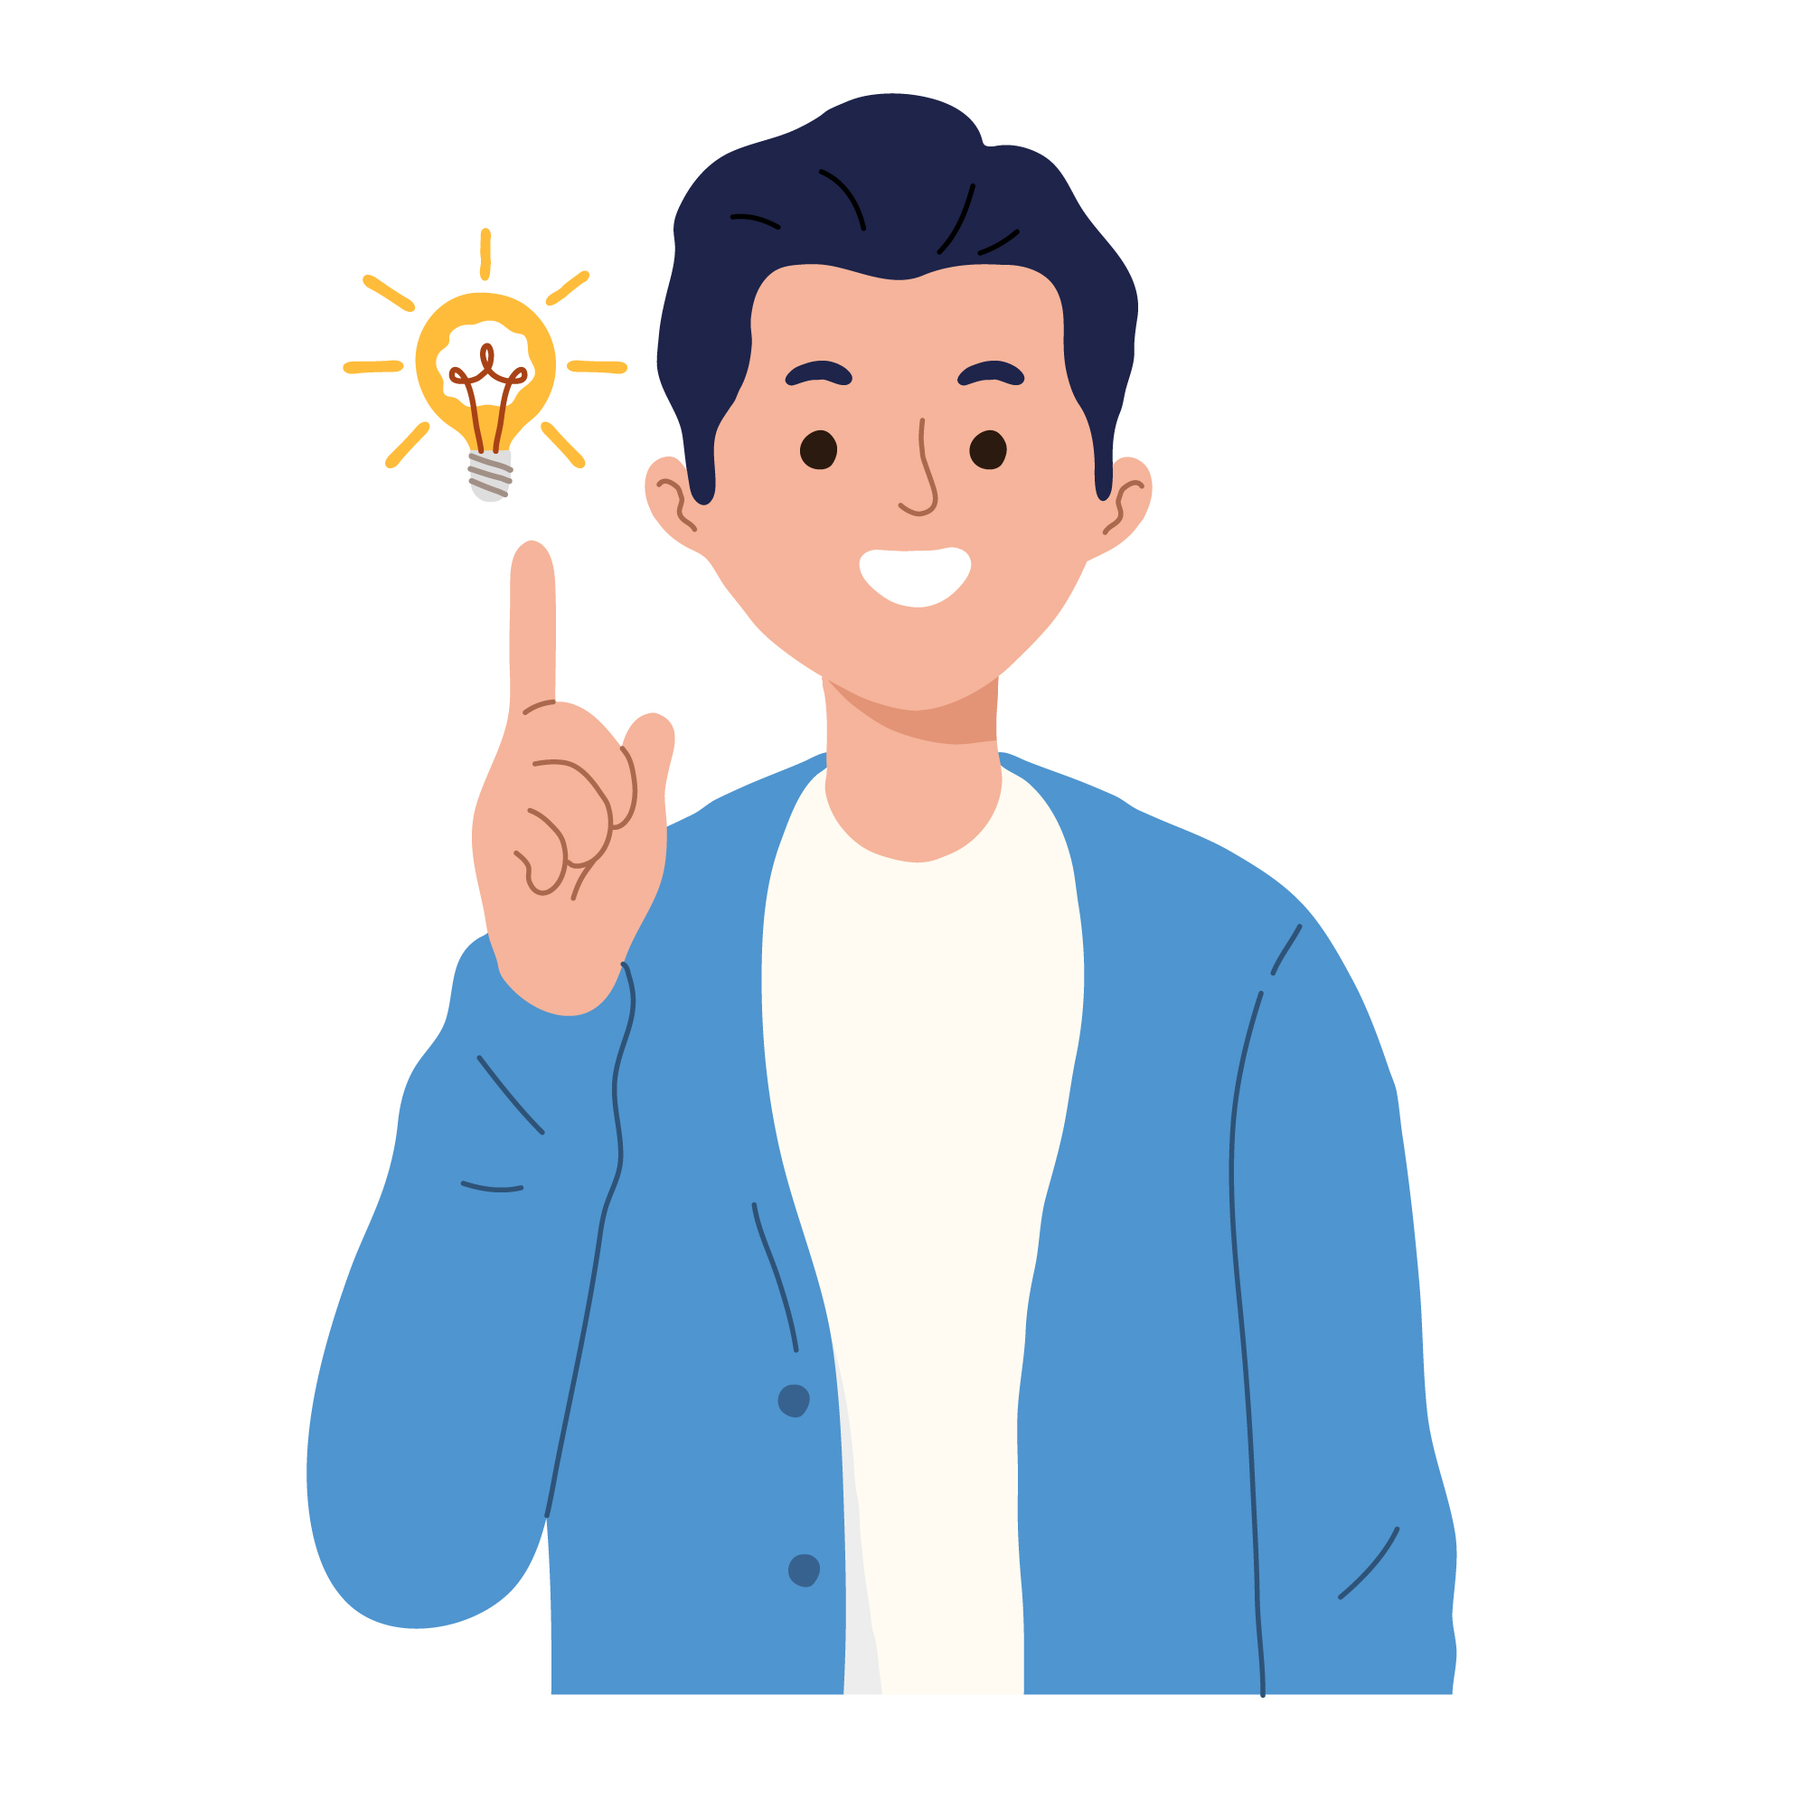
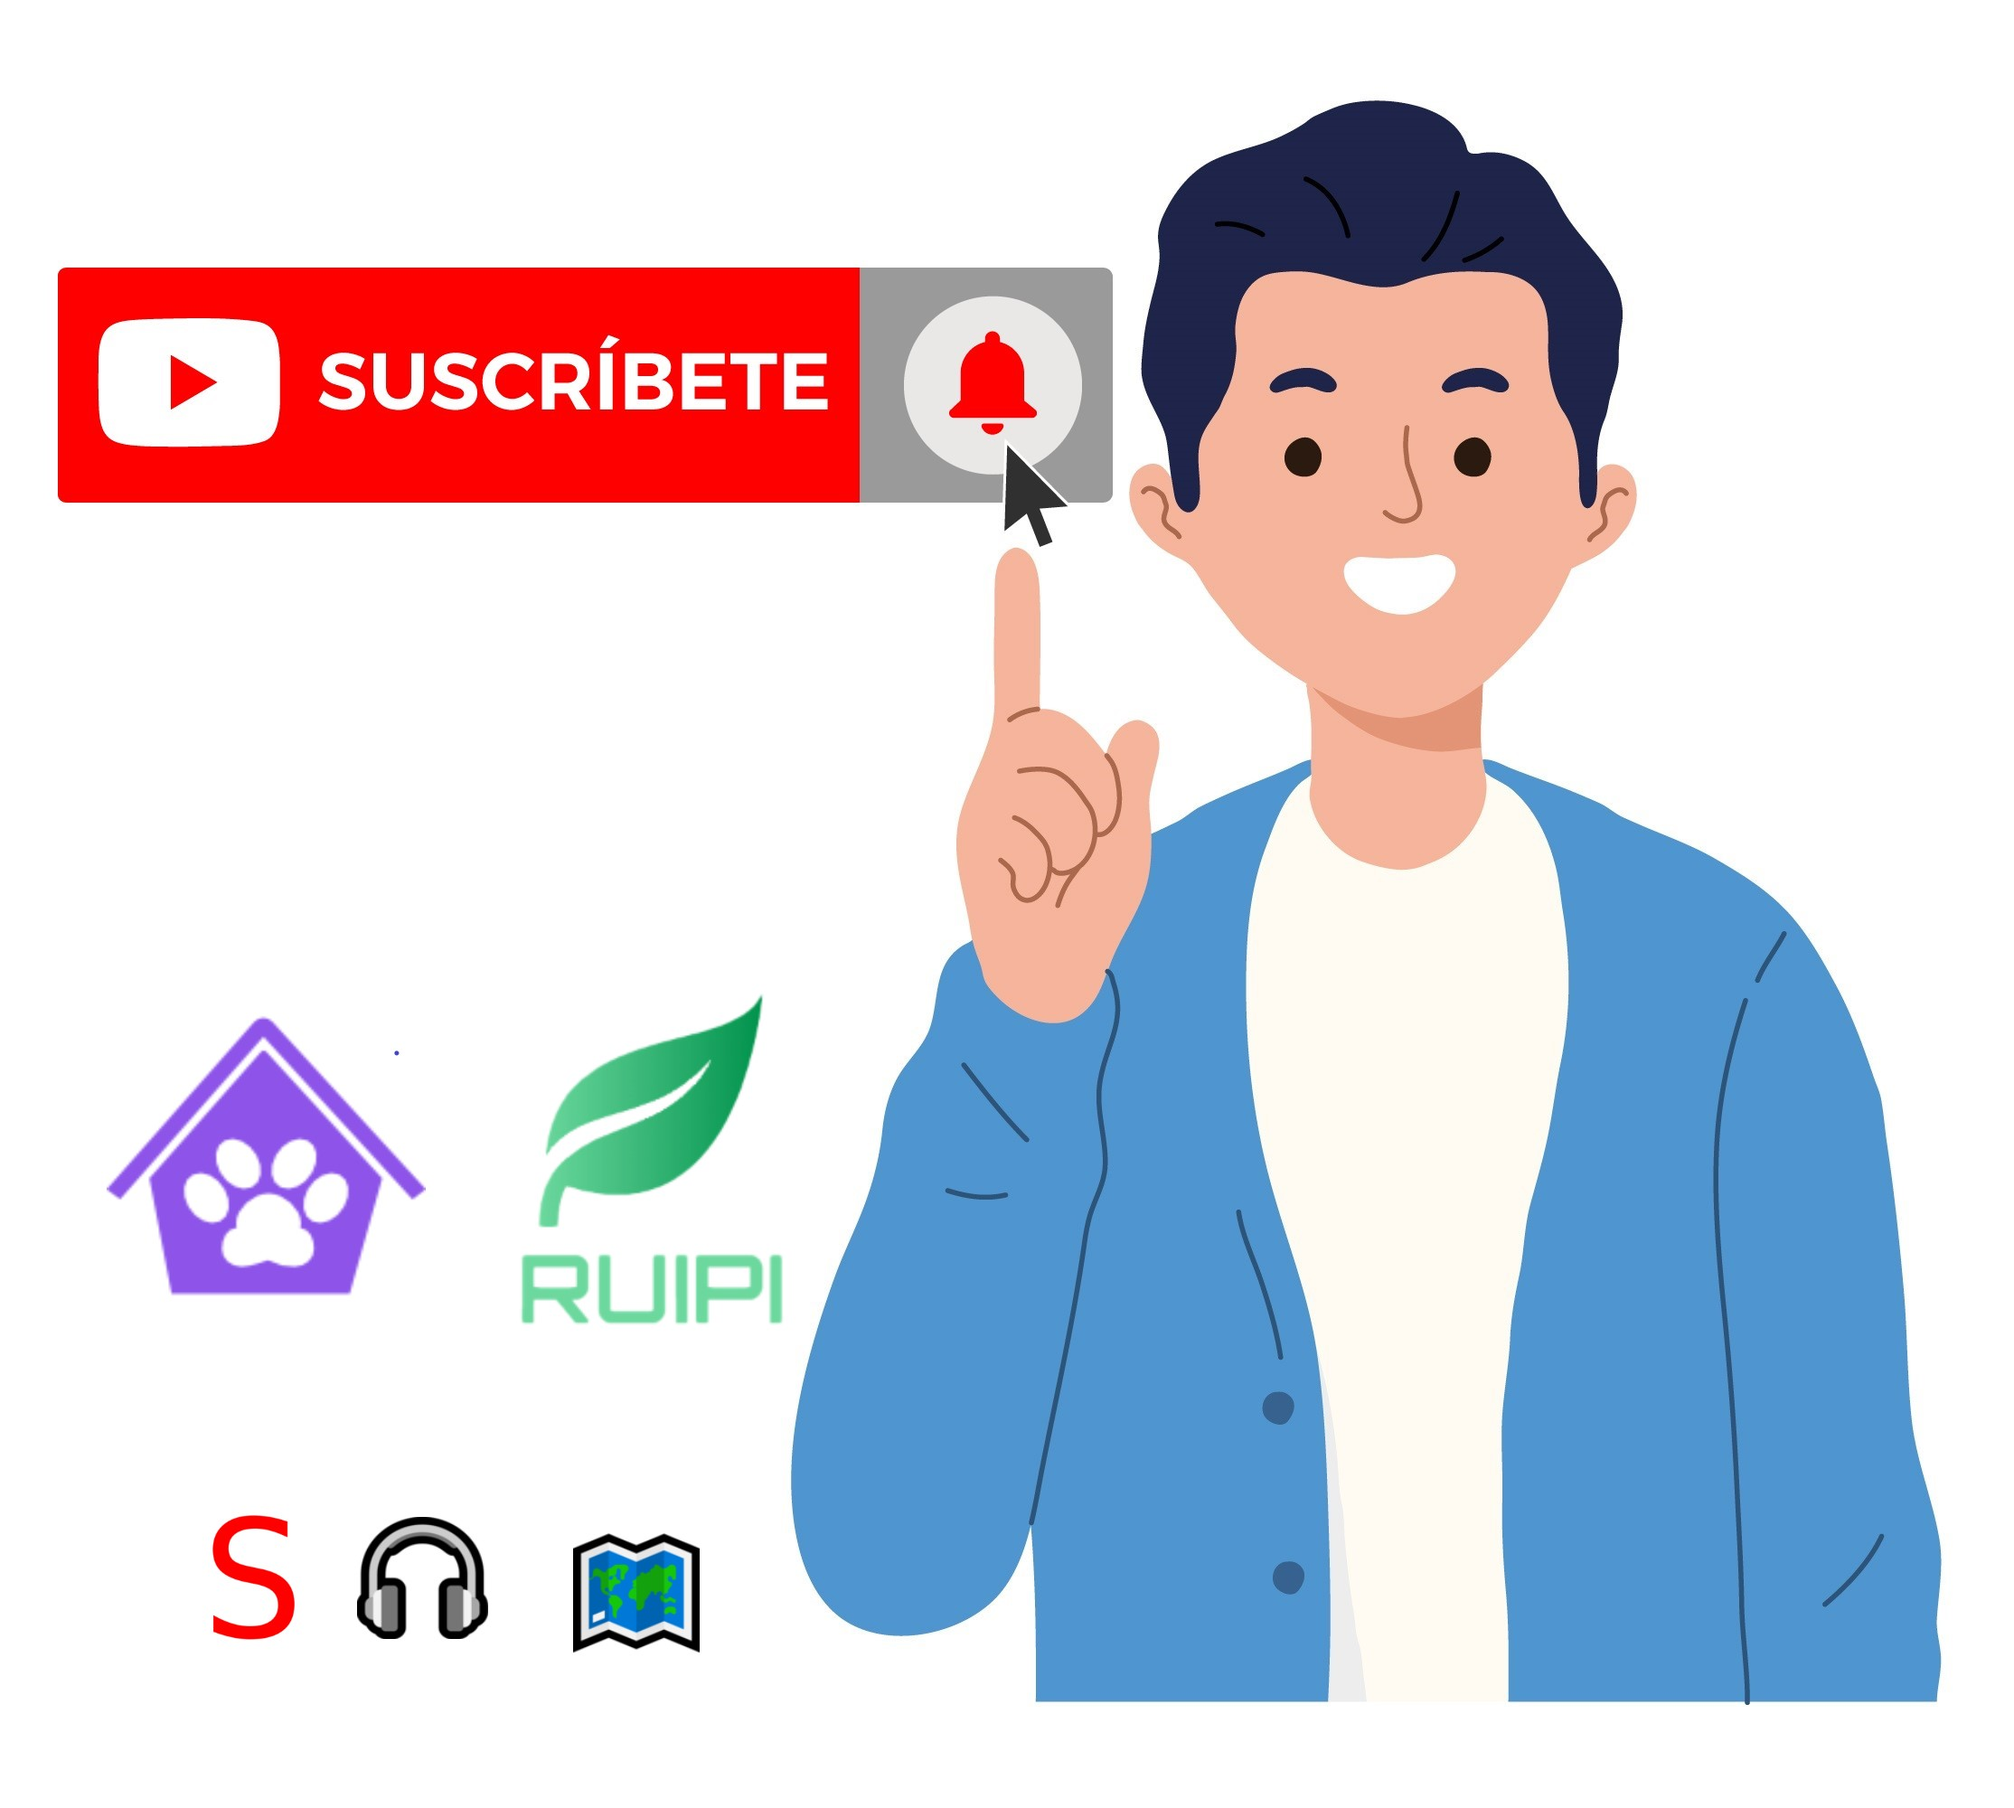
Youtube links added

diff --git a/index.html b/index.html
@@ -81,7 +81,10 @@
 
         </article>
         <article>
-            <img class="gray-scale" src="assets/daniel.jpg" alt="Daniel Lozada">
+            <a href="https://www.youtube.com/watch?v=ZsXlwuImhH0&ab_channel=DanielLozada" rel="noopener" target="_blank"
+                title="YouTube">
+                <img src="assets/daniel.jpg" alt="Daniel Lozada">
+            </a>
         </article>
         <article>
             <h2 class="text-center text-lg-left">Algo de mi stack de desarrollo actual:</h2>
@@ -536,6 +539,14 @@
                     </svg>
                     <h5>SOCIAL MEDIA</h5>
                     <small class="social-media">
+                        <a href="https://www.youtube.com/channel/UChvf1hPa2T0zAooR_6d7UdA" target="_blank"
+                            rel="noopener">
+                            <svg xmlns="http://www.w3.org/2000/svg" width="16" height="16" fill="currentColor"
+                                class="bi bi-youtube" viewBox="0 0 16 16">
+                                <path
+                                    d="M8.051 1.999h.089c.822.003 4.987.033 6.11.335a2.01 2.01 0 0 1 1.415 1.42c.101.38.172.883.22 1.402l.01.104.022.26.008.104c.065.914.073 1.77.074 1.957v.075c-.001.194-.01 1.108-.082 2.06l-.008.105-.009.104c-.05.572-.124 1.14-.235 1.558a2.007 2.007 0 0 1-1.415 1.42c-1.16.312-5.569.334-6.18.335h-.142c-.309 0-1.587-.006-2.927-.052l-.17-.006-.087-.004-.171-.007-.171-.007c-1.11-.049-2.167-.128-2.654-.26a2.007 2.007 0 0 1-1.415-1.419c-.111-.417-.185-.986-.235-1.558L.09 9.82l-.008-.104A31.4 31.4 0 0 1 0 7.68v-.123c.002-.215.01-.958.064-1.778l.007-.103.003-.052.008-.104.022-.26.01-.104c.048-.519.119-1.023.22-1.402a2.007 2.007 0 0 1 1.415-1.42c.487-.13 1.544-.21 2.654-.26l.17-.007.172-.006.086-.003.171-.007A99.788 99.788 0 0 1 7.858 2h.193zM6.4 5.209v4.818l4.157-2.408L6.4 5.209z" />
+                            </svg>
+                        </a>
                         <a href="https://twitter.com/dflr10" target="_blank" rel="noopener">
                             <svg xmlns="http://www.w3.org/2000/svg" width="24" height="24" viewBox="0 0 24 24">
                                 <path

diff --git a/css/style.css b/css/style.css
@@ -692,6 +692,7 @@ span {
 .social-media svg {
   width: 1.5rem;
   height: 1.5rem;
+  fill: var(--first-color);
 }
 
 @media screen and (min-width: 768px) {
